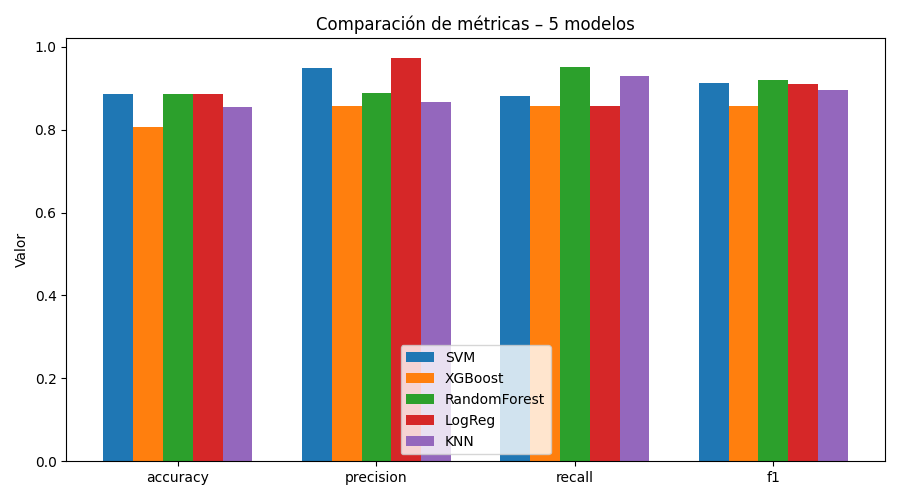
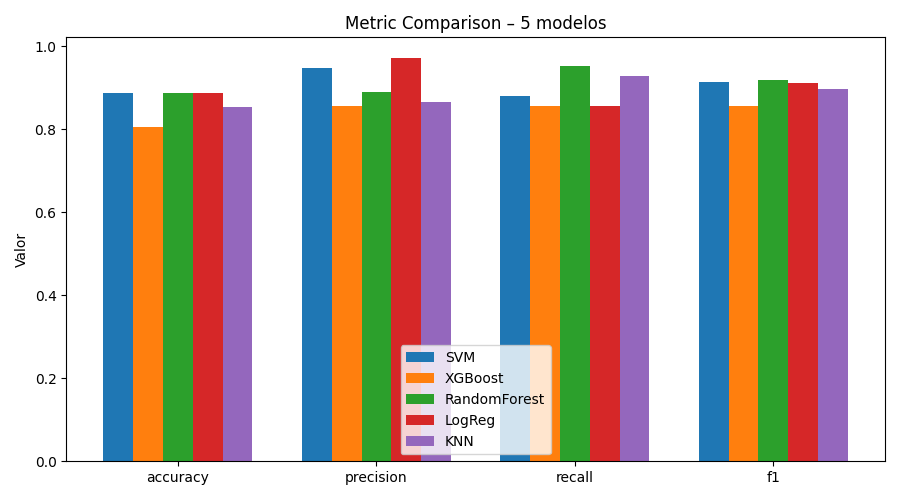
update 5modelos

Changed region(s): [[0.0933, 0.03, 0.9644, 0.09]]

diff --git a/entrenar_modelo.py b/entrenar_modelo.py
@@ -281,7 +281,7 @@ plt.figure(figsize=(9,5))
 for i, (name, m) in enumerate(results.items()):
     plt.bar(idx + i*bar_w, [m[k] for k in metrics_names], bar_w, label=name)
 plt.xticks(idx + bar_w*2, metrics_names)
-plt.ylabel("Valor"); plt.title("Comparación de métricas – 5 modelos")
+plt.ylabel("Valor"); plt.title("Metric Comparison – 5 modelos")
 plt.legend(); plt.tight_layout()
 plt.savefig("04_comparacion_metricas.png"); plt.close()
 
@@ -292,11 +292,11 @@ for t_name in ["RandomForest", "XGBoost"]:
         if hasattr(mdl, "feature_importances_"):
             plt.figure(figsize=(7,4))
             plt.barh(X.columns, mdl.feature_importances_, color="darkorange")
-            plt.title(f"Importancia de características – {t_name}")
+            plt.title(f"Importance of features – {t_name}")
             plt.tight_layout(); plt.savefig(f"05_importancia_{t_name}.png"); plt.close()
 
 # 6.6 Matriz de confusión del mejor modelo
 cm = confusion_matrix(y_test, best_model.predict(X_test))
 ConfusionMatrixDisplay(cm).plot(cmap="Blues")
-plt.title(f"Matriz de confusión – {best_name}")
+plt.title(f"confusion matrix – {best_name}")
 plt.tight_layout(); plt.savefig("06_matriz_confusion.png"); plt.close()
